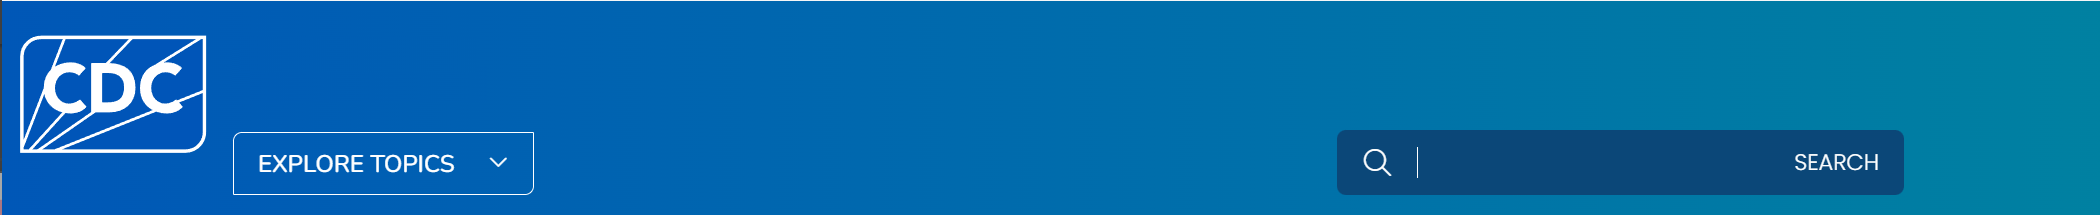
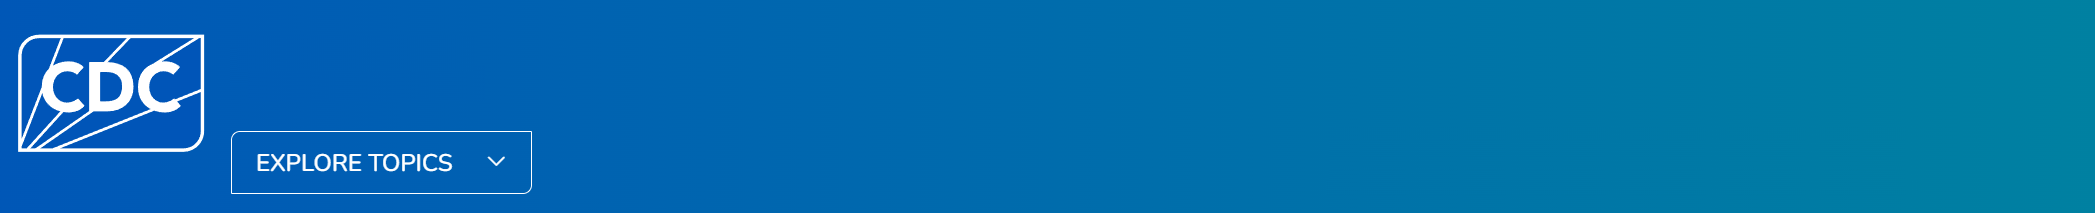
changed header.png and added info to the README

diff --git a/static/index.html b/static/index.html
@@ -17,12 +17,33 @@
         }
         
         .header {
-            background-color: #075290;
+            /* CDC gradient from blue to teal */
+            background: linear-gradient(90deg, #0052A5 0%, #00A0B7 100%);
             color: white;
             padding: 20px;
             margin-bottom: 30px;
             text-align: center;
             border-radius: 8px;
+            display: flex;
+            justify-content: center;
+            align-items: center;
+            position: relative;
+        }
+        
+        .header img {
+            max-width: 100%;
+            max-height: 120px;
+        }
+        
+        .header-title {
+            position: absolute;
+            color: white;
+            font-size: 28px;
+            font-weight: 700;
+            text-shadow: 1px 1px 3px rgba(0, 0, 0, 0.3);
+            width: 100%;
+            text-align: center;
+            z-index: 1;
         }
         
         .container {
@@ -31,13 +52,6 @@
             box-shadow: 0 2px 15px rgba(0, 0, 0, 0.1);
             padding: 30px;
             margin-bottom: 30px;
-        }
-        
-        h1 {
-            color: #075290;
-            margin-bottom: 30px;
-            text-align: center;
-            font-weight: 600;
         }
         
         .input-group {
@@ -133,12 +147,13 @@
 </head>
 <body>
     <div class="header">
-        <h1>Content Creation Assistant</h1>
+        <div class="header-title">Content Creation Assistant</div>
+        <img src="/static/header.png" alt="Content Creation Assistant Header">
     </div>
     
     <div class="container">
         <div class="input-group">
-            <label for="topic">What would you like content about?</label>
+            <label for="topic">What would you like the Content Creator to do for you?</label>
             <input type="text" id="topic" placeholder="Enter your topic or question...">
         </div>
         

diff --git a/app.py b/app.py
@@ -3,6 +3,7 @@ from flask_cors import CORS
 import traceback
 import os
 import json
+import shutil
 from query_data import query_rag
 
 app = Flask(__name__, static_folder="static")
@@ -74,6 +75,18 @@ def setup_static_folder():
         os.makedirs(static_dir)
         print(f"Created static directory at {static_dir}")
     
+    # Create header.png if it doesn't exist (need to copy from another source)
+    header_path = os.path.join(static_dir, 'header.png')
+    
+    # Try to copy header.png if it exists in the project directory
+    if not os.path.exists(header_path):
+        if os.path.exists('header.png'):
+            try:
+                shutil.copy('header.png', header_path)
+                print(f"Copied header.png to {header_path}")
+            except Exception as e:
+                print(f"Could not copy header image: {e}")
+    
     # Create a simple HTML file directly
     index_path = os.path.join(static_dir, 'index.html')
     
@@ -97,12 +110,33 @@ def setup_static_folder():
         }
         
         .header {
-            background-color: #075290;
+            /* CDC gradient from blue to teal */
+            background: linear-gradient(90deg, #0052A5 0%, #00A0B7 100%);
             color: white;
             padding: 20px;
             margin-bottom: 30px;
             text-align: center;
             border-radius: 8px;
+            display: flex;
+            justify-content: center;
+            align-items: center;
+            position: relative;
+        }
+        
+        .header img {
+            max-width: 100%;
+            max-height: 120px;
+        }
+        
+        .header-title {
+            position: absolute;
+            color: white;
+            font-size: 28px;
+            font-weight: 700;
+            text-shadow: 1px 1px 3px rgba(0, 0, 0, 0.3);
+            width: 100%;
+            text-align: center;
+            z-index: 1;
         }
         
         .container {
@@ -111,13 +145,6 @@ def setup_static_folder():
             box-shadow: 0 2px 15px rgba(0, 0, 0, 0.1);
             padding: 30px;
             margin-bottom: 30px;
-        }
-        
-        h1 {
-            color: #075290;
-            margin-bottom: 30px;
-            text-align: center;
-            font-weight: 600;
         }
         
         .input-group {
@@ -213,12 +240,13 @@ def setup_static_folder():
 </head>
 <body>
     <div class="header">
-        <h1>Content Creation Assistant</h1>
+        <div class="header-title">Content Creation Assistant</div>
+        <img src="/static/header.png" alt="Content Creation Assistant Header">
     </div>
     
     <div class="container">
         <div class="input-group">
-            <label for="topic">What would you like content about?</label>
+            <label for="topic">What would you like the Content Creator to do for you?</label>
             <input type="text" id="topic" placeholder="Enter your topic or question...">
         </div>
         

diff --git a/README.md b/README.md
@@ -5,7 +5,7 @@ This application uses Retrieval-Augmented Generation (RAG) to create content bas
 ## Features
 
 - **Document Analysis**: Automatically processes multiple document types (.pdf, .txt, .docx, .csv, .xlsx, etc.)
-- **Advanced RAG**: Chunks documents intelligently and retrieves relevant information for responses
+- **Advanced RAG**: Chunks documents intelligently and retrieves relevant information for responses. Stores the chunks in the vector database
 - **Multiple Content Types**: Generates articles, social media posts, and video scripts
 - **Free Models**: Uses Llama 3.2 3B and open-source embedding models
 - **Modern UI**: Clean, responsive web interface for content generation
